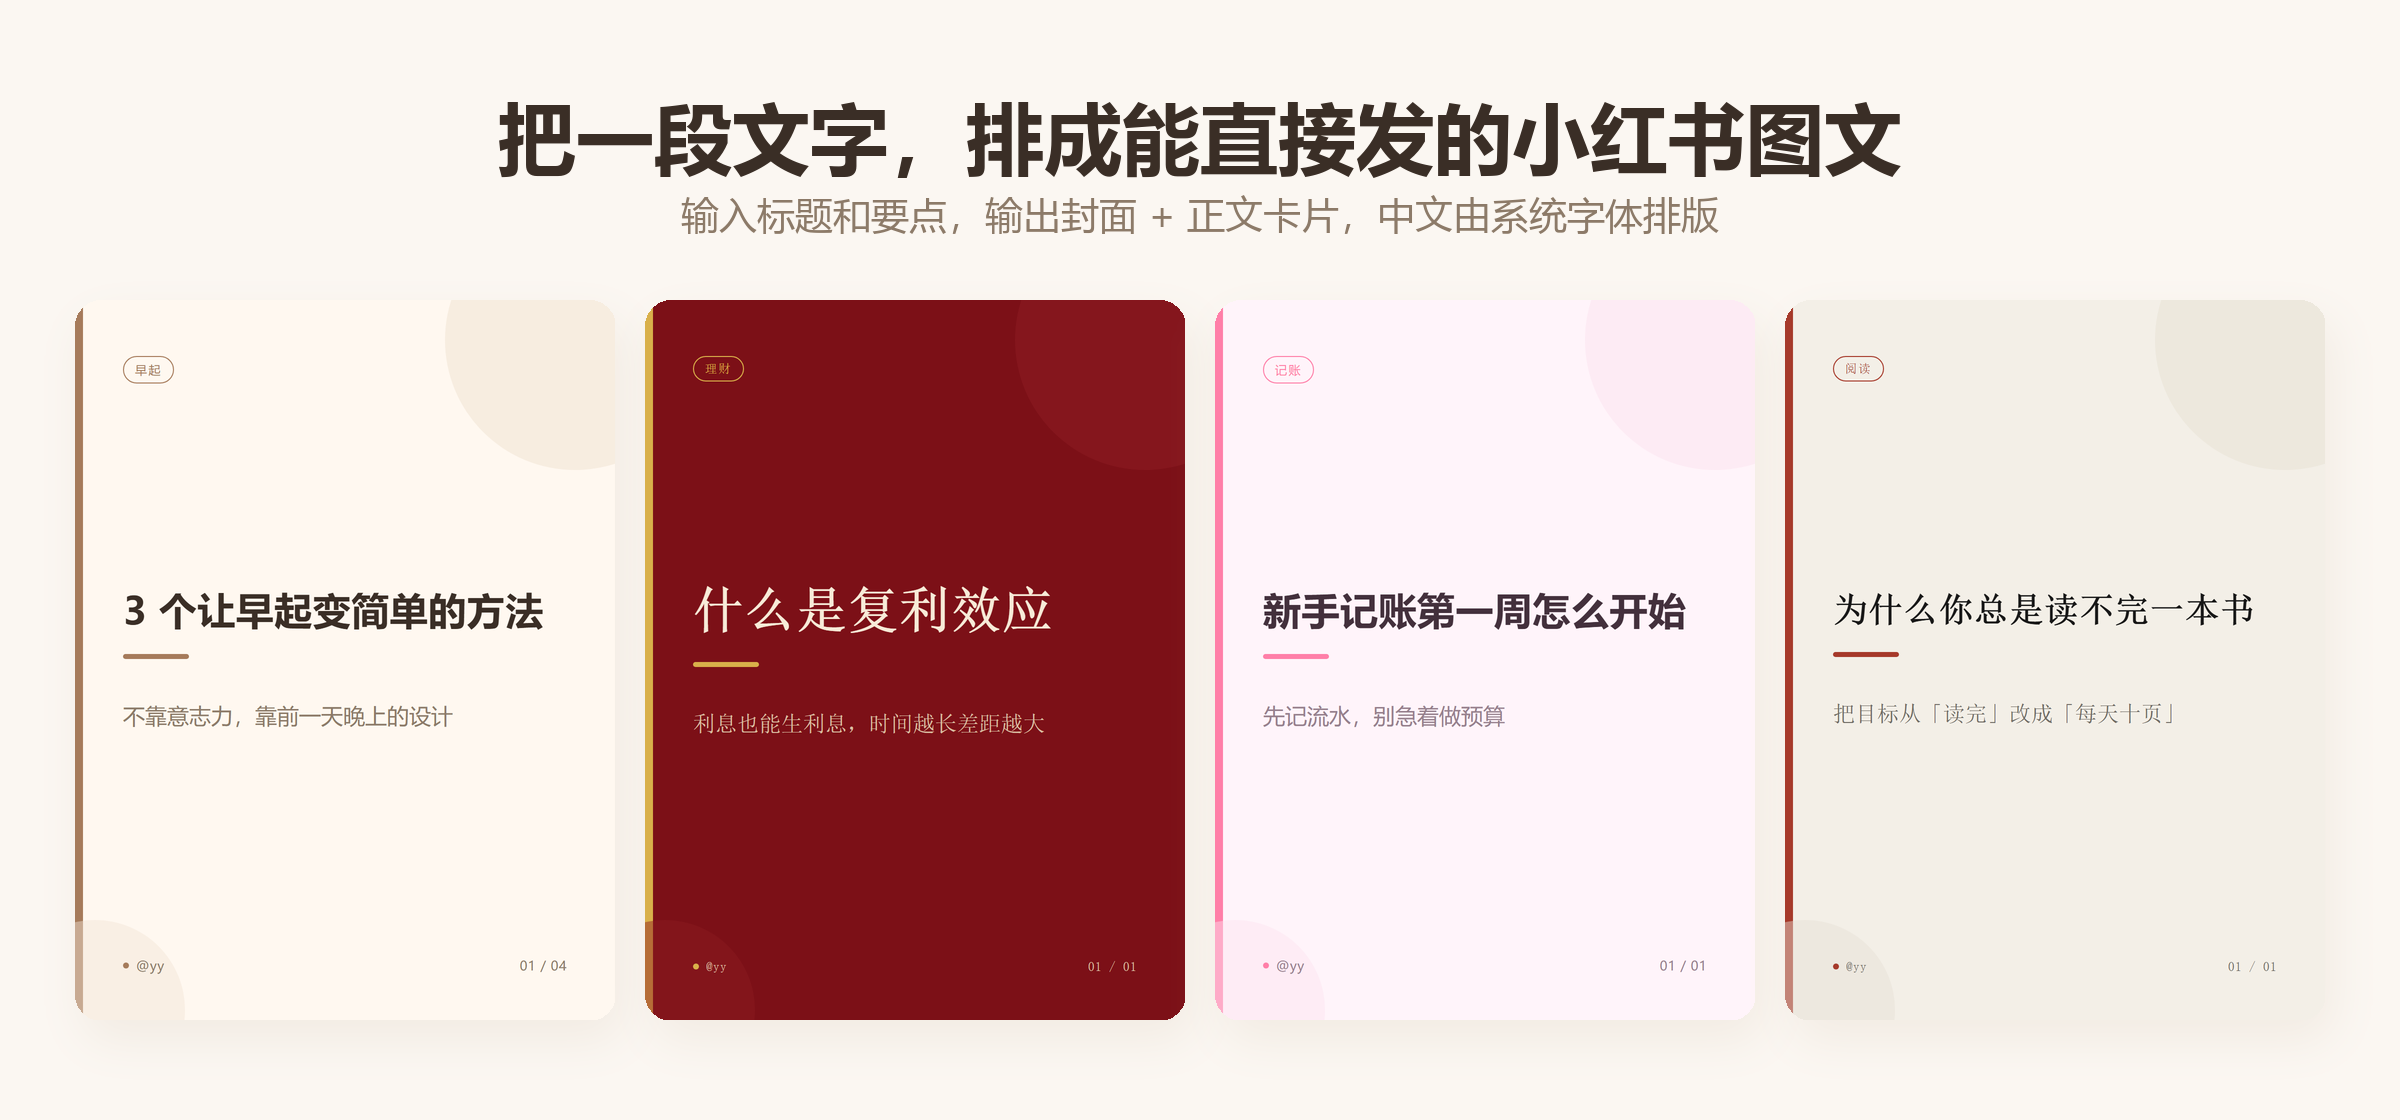
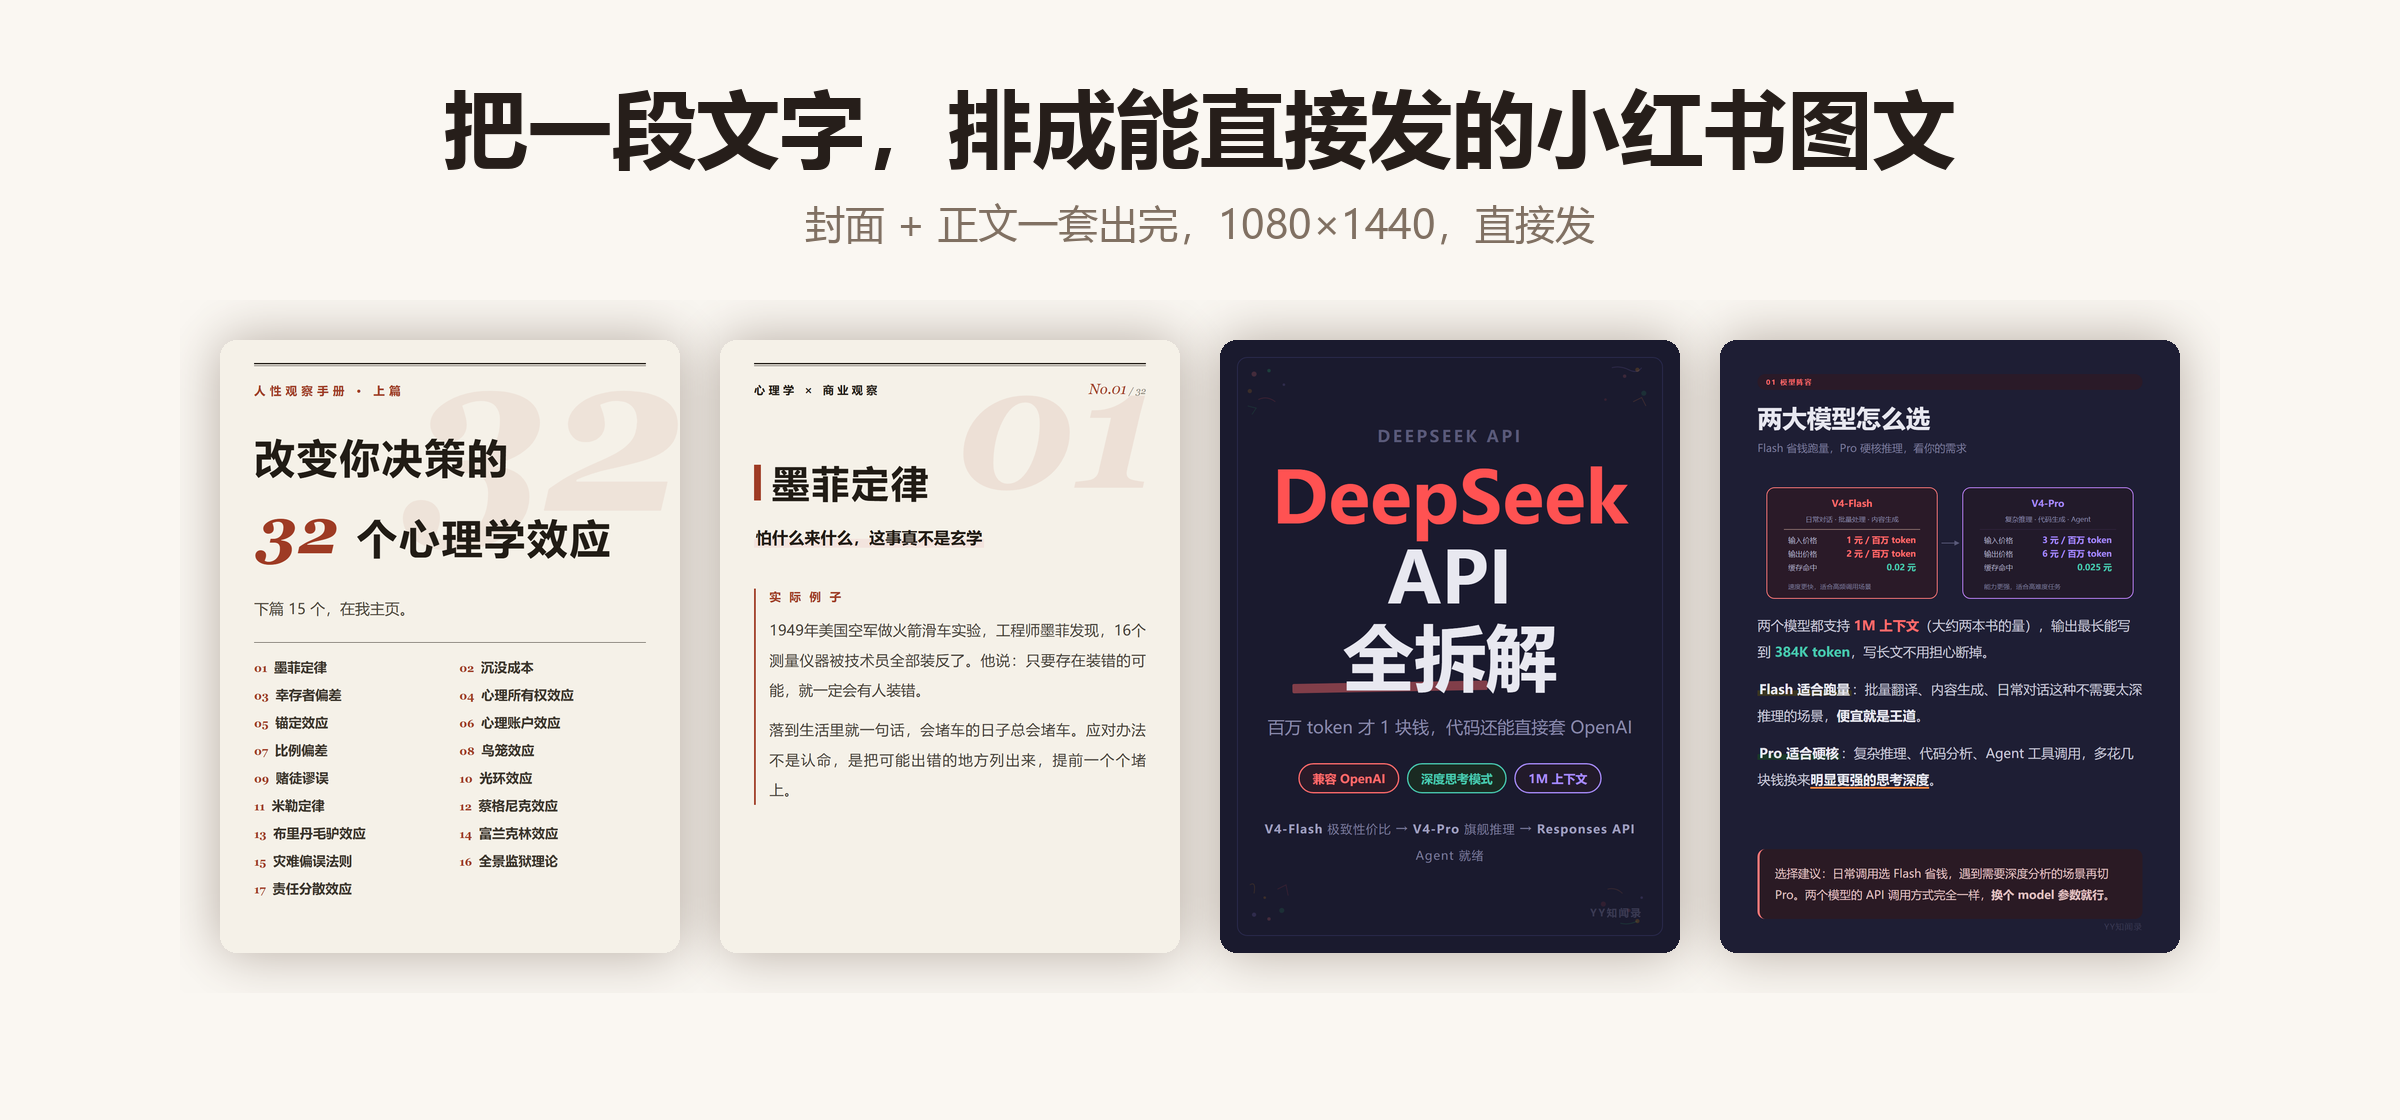
示例换成真实成品：心理学效应与 DeepSeek API 拆解

diff --git a/README.md b/README.md
@@ -8,17 +8,21 @@
 
 ## 示例
 
-下面四张是 `scripts/card.py` 的真实输出，换个 `--theme` 就是另一套观感：
+下面两组是作者之前实际发布过的图文，版式出自同一类 HTML 排版流程。左边的封面负责拦住人，右边三张讲清一件事。
 
-| `ins-aesthetic` | `neo-chinese` | `cute-illustration` | `magazine-editorial` |
+**心理学效应 · 32 个定律（上篇）**
+
+| 封面 | 01 墨菲定律 | 02 沉没成本 | 03 幸存者偏差 |
 |---|---|---|---|
-| ![奶油风封面：3 个让早起变简单的方法](assets/set-early-rising/cover.png) | ![国潮风封面：什么是复利效应](assets/demo-neo-chinese/cover.png) | ![马卡龙风封面：新手记账第一周怎么开始](assets/demo-cute-illustration/cover.png) | ![杂志风封面：为什么你总是读不完一本书](assets/demo-magazine-editorial/cover.png) |
+| ![封面：改变你决策的 32 个心理学效应](assets/showcase-psychology/00-cover.png) | ![墨菲定律](assets/showcase-psychology/01-murphy-law.png) | ![沉没成本](assets/showcase-psychology/02-sunk-cost.png) | ![幸存者偏差](assets/showcase-psychology/03-survivor-bias.png) |
 
-一组完整的四张（封面 + 三张正文）：
+**DeepSeek V4 API 全拆解**
 
-| 封面 | 01 | 02 | 03 |
+| 封面 | 01 两大模型怎么选 | 02 深度思考模式 | 03 快速上手 |
 |---|---|---|---|
-| ![](assets/set-early-rising/cover.png) | ![](assets/set-early-rising/card_1.png) | ![](assets/set-early-rising/card_2.png) | ![](assets/set-early-rising/card_3.png) |
+| ![封面：DeepSeek API 全拆解](assets/showcase-deepseek/00-cover.png) | ![V4-Flash 与 V4-Pro 对比](assets/showcase-deepseek/01-two-models.png) | ![深度思考模式](assets/showcase-deepseek/02-thinking-mode.png) | ![快速上手](assets/showcase-deepseek/03-quick-start.png) |
+
+`examples/` 里有 4 份可以直接跑的 `content.json`，渲染出来是同一套模板的卡片。
 
 ## 两条路线
 
